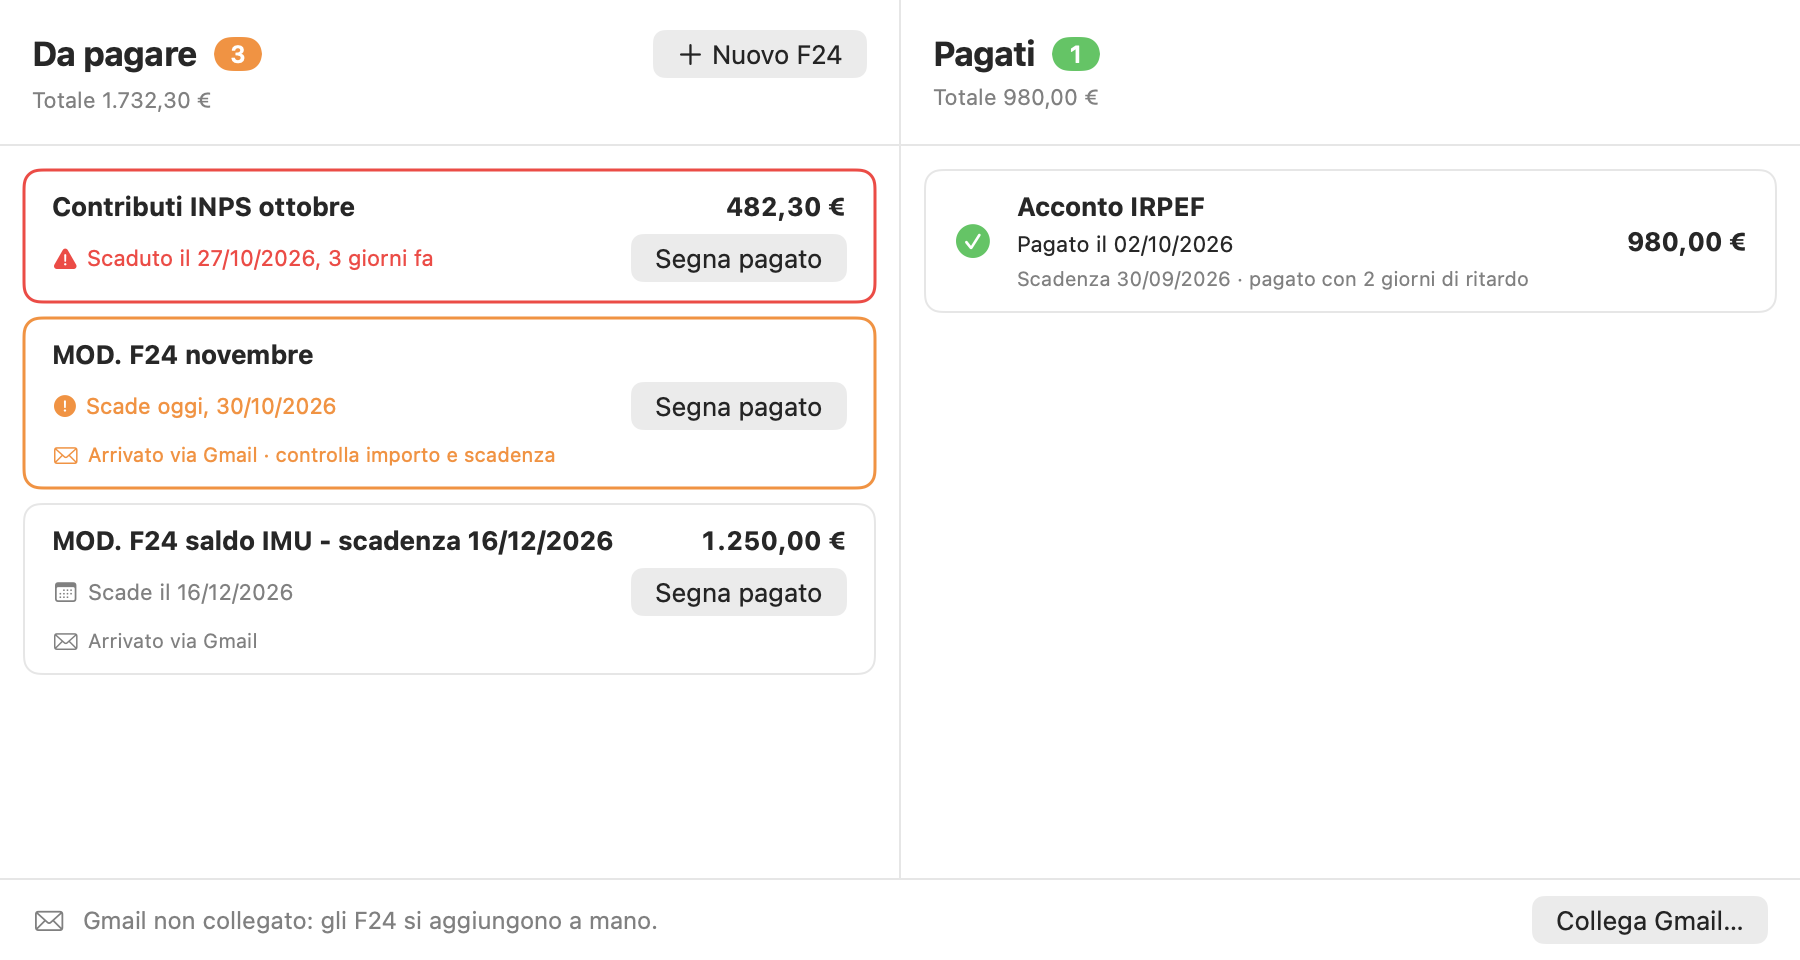
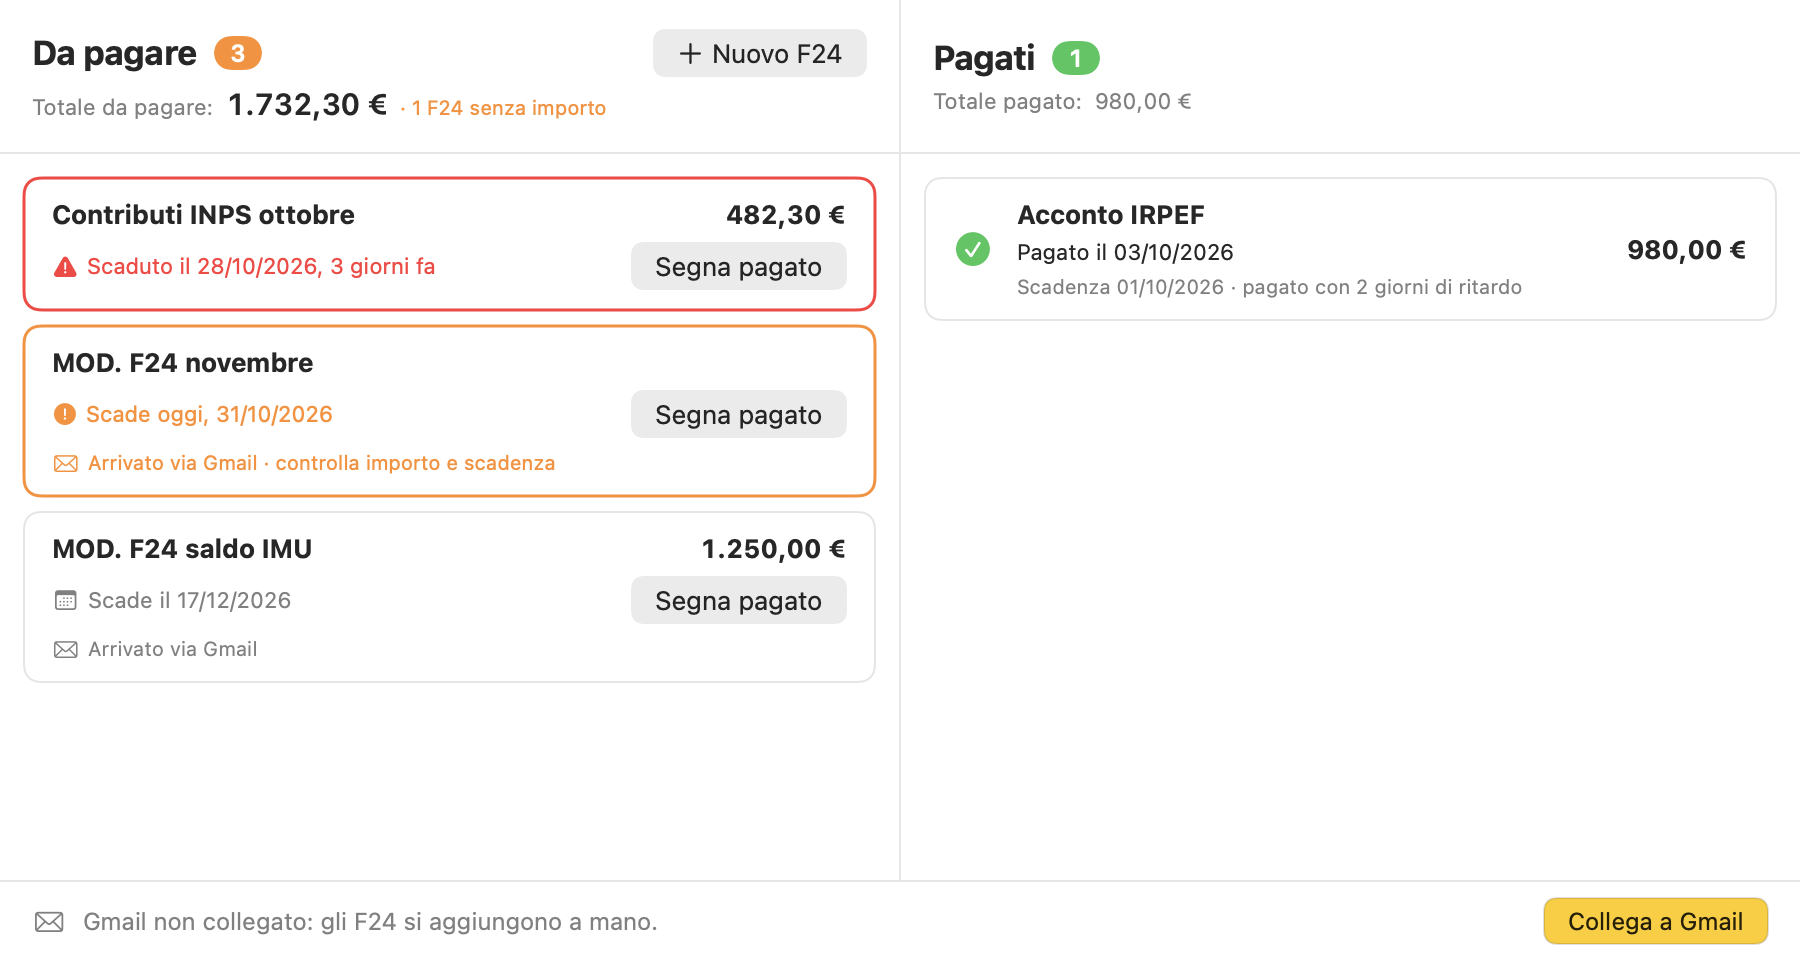
Totale da pagare sempre in evidenza sotto «Da pagare»
- Sotto il titolo «Da pagare» compare sempre «Totale da pagare» in
  grande, anche a 0,00 €.
- Se qualche F24 non ha l'importo lo si segnala («1 F24 senza
  importo»), perché non entra nella somma.
- Nella colonna dei pagati «Totale pagato», sempre visibile.
- Schermata del README aggiornata.

diff --git a/Sources/EasyF24/ContentView.swift b/Sources/EasyF24/ContentView.swift
@@ -46,6 +46,8 @@ struct ContentView: View {
         HStack(spacing: 0) {
             Colonna(titolo: "Da pagare",
                     colore: .orange,
+                    etichettaTotale: "Totale da pagare",
+                    totaleInEvidenza: true,
                     elementi: store.daPagare,
                     messaggioVuoto: "Nessun F24 da pagare.\nPremi «Nuovo F24» per aggiungerne uno.",
                     accessorio: {
@@ -71,6 +73,8 @@ struct ContentView: View {
 
             Colonna(titolo: "Pagati",
                     colore: .green,
+                    etichettaTotale: "Totale pagato",
+                    totaleInEvidenza: false,
                     elementi: store.pagati,
                     messaggioVuoto: "Ancora nessun F24 pagato.",
                     accessorio: { EmptyView() },
@@ -172,6 +176,10 @@ enum Avviso: Identifiable {
 struct Colonna<Accessorio: View, Riga: View>: View {
     let titolo: String
     let colore: Color
+    /// Es. "Totale da pagare": la somma degli importi, sempre visibile sotto il titolo.
+    let etichettaTotale: String
+    /// Totale scritto in grande e in nero (colonna "Da pagare").
+    let totaleInEvidenza: Bool
     let elementi: [F24]
     let messaggioVuoto: String
     let accessorio: () -> Accessorio
@@ -217,17 +225,30 @@ struct Colonna<Accessorio: View, Riga: View>: View {
                 Spacer()
                 accessorio()
             }
-            Text(totale)
-                .font(.subheadline)
-                .foregroundColor(.secondary)
+            rigaTotale
         }
         .padding(.horizontal, 16)
-        .frame(height: 72)
+        .frame(height: 76)
     }
 
-    private var totale: String {
+    /// "Totale da pagare: 1.732,30 €", sempre presente (anche a 0,00 €). Gli F24 senza importo
+    /// non entrano nella somma: lo si dice, così il totale non sembra più basso del vero.
+    private var rigaTotale: some View {
         let importi = elementi.compactMap { $0.importoCentesimi }
-        // Riga sempre presente (anche vuota) per allineare le due intestazioni.
-        return importi.isEmpty ? " " : "Totale " + Formato.euro(importi.reduce(0, +))
+        let senzaImporto = elementi.count - importi.count
+        return HStack(alignment: .firstTextBaseline, spacing: 6) {
+            Text(etichettaTotale + ":")
+                .font(.subheadline)
+                .foregroundColor(.secondary)
+            Text(Formato.euro(importi.reduce(0, +)))
+                .font(totaleInEvidenza ? Font.title3.bold().monospacedDigit() : Font.subheadline.monospacedDigit())
+                .foregroundColor(totaleInEvidenza ? .primary : .secondary)
+            if senzaImporto > 0 {
+                Text(senzaImporto == 1 ? "· 1 F24 senza importo" : "· \(senzaImporto) F24 senza importo")
+                    .font(.caption)
+                    .foregroundColor(.orange)
+                    .help("Questi F24 non hanno un importo e non sono compresi nel totale: aprili con un doppio clic per inserirlo.")
+            }
+        }
     }
 }
